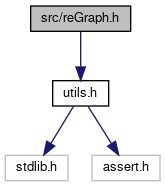
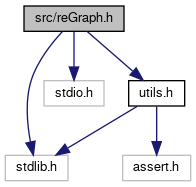
deploy: 8632b3fea432e5435f1c3c181e9e3f5456cb4f73

diff --git a/reGraph_8h_source.html b/reGraph_8h_source.html
@@ -73,26 +73,30 @@ $(function() {
 <div class="line"><a name="l00011"></a><span class="lineno">   11</span>&#160;<span class="preprocessor">#ifndef REGRAPH_H</span></div>
 <div class="line"><a name="l00012"></a><span class="lineno">   12</span>&#160;<span class="preprocessor">#define REGRAPH_H</span></div>
 <div class="line"><a name="l00013"></a><span class="lineno">   13</span>&#160;<span class="preprocessor">#define INIT_ADJ_LEN 1000</span></div>
-<div class="line"><a name="l00014"></a><span class="lineno">   14</span>&#160;<span class="preprocessor">#include &quot;<a class="code" href="utils_8h.html">utils.h</a>&quot;</span></div>
-<div class="line"><a name="l00015"></a><span class="lineno">   15</span>&#160; </div>
-<div class="line"><a name="l00021"></a><span class="lineno"><a class="line" href="structadjlist.html">   21</a></span>&#160;<span class="keyword">typedef</span> <span class="keyword">struct </span>{</div>
-<div class="line"><a name="l00022"></a><span class="lineno">   22</span>&#160;    <a class="code" href="structque.html">que</a>* ques;</div>
-<div class="line"><a name="l00023"></a><span class="lineno">   23</span>&#160;    <span class="keywordtype">int</span> n; </div>
-<div class="line"><a name="l00024"></a><span class="lineno">   24</span>&#160;} <a class="code" href="structadjlist.html">adjlist</a>;</div>
-<div class="line"><a name="l00025"></a><span class="lineno">   25</span>&#160; </div>
-<div class="line"><a name="l00026"></a><span class="lineno">   26</span>&#160;<span class="comment">// Init and kill</span></div>
-<div class="line"><a name="l00027"></a><span class="lineno">   27</span>&#160;<a class="code" href="structadjlist.html">adjlist</a> init_adjlist(<span class="keywordtype">int</span> n);</div>
-<div class="line"><a name="l00028"></a><span class="lineno">   28</span>&#160;<span class="keywordtype">void</span> kill_adjlist(<a class="code" href="structadjlist.html">adjlist</a>*);</div>
-<div class="line"><a name="l00029"></a><span class="lineno">   29</span>&#160; </div>
-<div class="line"><a name="l00030"></a><span class="lineno">   30</span>&#160;<span class="comment">//Add edge</span></div>
-<div class="line"><a name="l00037"></a><span class="lineno">   37</span>&#160;<span class="comment"></span><span class="keywordtype">void</span> <a class="code" href="reGraph_8h.html#a6fc092bd8a5734c02871a57d18d5a0d0">add_edge</a>(<a class="code" href="structadjlist.html">adjlist</a>*, <span class="keywordtype">int</span> u, <span class="keywordtype">int</span> v);</div>
+<div class="line"><a name="l00014"></a><span class="lineno">   14</span>&#160;<span class="preprocessor">#include &lt;stdlib.h&gt;</span></div>
+<div class="line"><a name="l00015"></a><span class="lineno">   15</span>&#160;<span class="preprocessor">#include &lt;stdio.h&gt;</span></div>
+<div class="line"><a name="l00016"></a><span class="lineno">   16</span>&#160;<span class="preprocessor">#include &quot;<a class="code" href="utils_8h.html">utils.h</a>&quot;</span></div>
+<div class="line"><a name="l00017"></a><span class="lineno">   17</span>&#160; </div>
+<div class="line"><a name="l00018"></a><span class="lineno">   18</span>&#160; </div>
+<div class="line"><a name="l00024"></a><span class="lineno"><a class="line" href="structadjlist.html">   24</a></span>&#160;<span class="keyword">typedef</span> <span class="keyword">struct </span>{</div>
+<div class="line"><a name="l00025"></a><span class="lineno">   25</span>&#160;    <a class="code" href="structque.html">que</a>* ques;</div>
+<div class="line"><a name="l00026"></a><span class="lineno">   26</span>&#160;    <span class="keywordtype">int</span> n; </div>
+<div class="line"><a name="l00027"></a><span class="lineno">   27</span>&#160;} <a class="code" href="structadjlist.html">adjlist</a>;</div>
+<div class="line"><a name="l00028"></a><span class="lineno">   28</span>&#160; </div>
+<div class="line"><a name="l00029"></a><span class="lineno">   29</span>&#160;<span class="comment">// Init and kill</span></div>
+<div class="line"><a name="l00036"></a><span class="lineno">   36</span>&#160;<span class="comment"></span><a class="code" href="structadjlist.html">adjlist</a> <a class="code" href="reGraph_8h.html#a4dcb7b8db53dad6de835618918a3d9c9">init_adjlist</a>(<span class="keywordtype">int</span> n);</div>
+<div class="line"><a name="l00037"></a><span class="lineno">   37</span>&#160;<span class="keywordtype">void</span> kill_adjlist(<a class="code" href="structadjlist.html">adjlist</a>*);</div>
 <div class="line"><a name="l00038"></a><span class="lineno">   38</span>&#160; </div>
-<div class="line"><a name="l00039"></a><span class="lineno">   39</span>&#160;<span class="keywordtype">void</span> interface(<span class="keywordtype">void</span>);</div>
-<div class="line"><a name="l00040"></a><span class="lineno">   40</span>&#160; </div>
-<div class="line"><a name="l00041"></a><span class="lineno">   41</span>&#160; </div>
-<div class="line"><a name="l00042"></a><span class="lineno">   42</span>&#160;<span class="preprocessor">#endif </span></div>
+<div class="line"><a name="l00039"></a><span class="lineno">   39</span>&#160;<span class="comment">//Add edge</span></div>
+<div class="line"><a name="l00046"></a><span class="lineno">   46</span>&#160;<span class="comment"></span><span class="keywordtype">void</span> <a class="code" href="reGraph_8h.html#a6fc092bd8a5734c02871a57d18d5a0d0">add_edge</a>(<a class="code" href="structadjlist.html">adjlist</a>*, <span class="keywordtype">int</span> u, <span class="keywordtype">int</span> v);</div>
+<div class="line"><a name="l00047"></a><span class="lineno">   47</span>&#160; </div>
+<div class="line"><a name="l00048"></a><span class="lineno">   48</span>&#160;<span class="keywordtype">int</span> interface(<span class="keywordtype">void</span>);</div>
+<div class="line"><a name="l00049"></a><span class="lineno">   49</span>&#160; </div>
+<div class="line"><a name="l00050"></a><span class="lineno">   50</span>&#160; </div>
+<div class="line"><a name="l00051"></a><span class="lineno">   51</span>&#160;<span class="preprocessor">#endif </span></div>
+<div class="ttc" id="areGraph_8h_html_a4dcb7b8db53dad6de835618918a3d9c9"><div class="ttname"><a href="reGraph_8h.html#a4dcb7b8db53dad6de835618918a3d9c9">init_adjlist</a></div><div class="ttdeci">adjlist init_adjlist(int n)</div><div class="ttdoc">Create adjacency list with n vertexes.</div><div class="ttdef"><b>Definition:</b> reGraph.c:3</div></div>
 <div class="ttc" id="areGraph_8h_html_a6fc092bd8a5734c02871a57d18d5a0d0"><div class="ttname"><a href="reGraph_8h.html#a6fc092bd8a5734c02871a57d18d5a0d0">add_edge</a></div><div class="ttdeci">void add_edge(adjlist *, int u, int v)</div><div class="ttdoc">Add edge to link v to u.</div><div class="ttdef"><b>Definition:</b> reGraph.c:23</div></div>
-<div class="ttc" id="astructadjlist_html"><div class="ttname"><a href="structadjlist.html">adjlist</a></div><div class="ttdoc">Adjacency list.</div><div class="ttdef"><b>Definition:</b> reGraph.h:21</div></div>
+<div class="ttc" id="astructadjlist_html"><div class="ttname"><a href="structadjlist.html">adjlist</a></div><div class="ttdoc">Adjacency list.</div><div class="ttdef"><b>Definition:</b> reGraph.h:24</div></div>
 <div class="ttc" id="astructque_html"><div class="ttname"><a href="structque.html">que</a></div><div class="ttdef"><b>Definition:</b> utils.h:43</div></div>
 <div class="ttc" id="autils_8h_html"><div class="ttname"><a href="utils_8h.html">utils.h</a></div><div class="ttdoc">General Utilities for C language.</div></div>
 </div><!-- fragment --></div><!-- contents -->

diff --git a/reGraph_8h.html b/reGraph_8h.html
@@ -73,16 +73,19 @@ $(function() {
 <div class="title">reGraph.h File Reference</div>  </div>
 </div><!--header-->
 <div class="contents">
-<div class="textblock"><code>#include &quot;<a class="el" href="utils_8h_source.html">utils.h</a>&quot;</code><br />
+<div class="textblock"><code>#include &lt;stdlib.h&gt;</code><br />
+<code>#include &lt;stdio.h&gt;</code><br />
+<code>#include &quot;<a class="el" href="utils_8h_source.html">utils.h</a>&quot;</code><br />
 </div><div class="textblock"><div class="dynheader">
 Include dependency graph for reGraph.h:</div>
 <div class="dyncontent">
 <div class="center"><img src="reGraph_8h__incl.png" border="0" usemap="#asrc_2reGraph_8h" alt=""/></div>
 <map name="asrc_2reGraph_8h" id="asrc_2reGraph_8h">
-<area shape="rect" title=" " alt="" coords="31,5,131,32"/>
-<area shape="rect" href="utils_8h.html" title="General Utilities for C language." alt="" coords="53,80,109,107"/>
+<area shape="rect" title=" " alt="" coords="24,5,124,32"/>
 <area shape="rect" title=" " alt="" coords="5,155,68,181"/>
-<area shape="rect" title=" " alt="" coords="92,155,160,181"/>
+<area shape="rect" title=" " alt="" coords="44,80,104,107"/>
+<area shape="rect" href="utils_8h.html" title="General Utilities for C language." alt="" coords="129,80,185,107"/>
+<area shape="rect" title=" " alt="" coords="123,155,191,181"/>
 </map>
 </div>
 </div><div class="textblock"><div class="dynheader">
@@ -111,8 +114,8 @@ Macros</h2></td></tr>
 </table><table class="memberdecls">
 <tr class="heading"><td colspan="2"><h2 class="groupheader"><a name="func-members"></a>
 Functions</h2></td></tr>
-<tr class="memitem:a4dcb7b8db53dad6de835618918a3d9c9"><td class="memItemLeft" align="right" valign="top"><a id="a4dcb7b8db53dad6de835618918a3d9c9"></a>
-<a class="el" href="structadjlist.html">adjlist</a>&#160;</td><td class="memItemRight" valign="bottom"><b>init_adjlist</b> (int n)</td></tr>
+<tr class="memitem:a4dcb7b8db53dad6de835618918a3d9c9"><td class="memItemLeft" align="right" valign="top"><a class="el" href="structadjlist.html">adjlist</a>&#160;</td><td class="memItemRight" valign="bottom"><a class="el" href="reGraph_8h.html#a4dcb7b8db53dad6de835618918a3d9c9">init_adjlist</a> (int n)</td></tr>
+<tr class="memdesc:a4dcb7b8db53dad6de835618918a3d9c9"><td class="mdescLeft">&#160;</td><td class="mdescRight">Create adjacency list with n vertexes.  <a href="reGraph_8h.html#a4dcb7b8db53dad6de835618918a3d9c9">More...</a><br /></td></tr>
 <tr class="separator:a4dcb7b8db53dad6de835618918a3d9c9"><td class="memSeparator" colspan="2">&#160;</td></tr>
 <tr class="memitem:a8bb4fcb8d8eccf0c5e1a93adea956282"><td class="memItemLeft" align="right" valign="top"><a id="a8bb4fcb8d8eccf0c5e1a93adea956282"></a>
 void&#160;</td><td class="memItemRight" valign="bottom"><b>kill_adjlist</b> (<a class="el" href="structadjlist.html">adjlist</a> *)</td></tr>
@@ -120,9 +123,9 @@ void&#160;</td><td class="memItemRight" valign="bottom"><b>kill_adjlist</b> (<a 
 <tr class="memitem:a6fc092bd8a5734c02871a57d18d5a0d0"><td class="memItemLeft" align="right" valign="top">void&#160;</td><td class="memItemRight" valign="bottom"><a class="el" href="reGraph_8h.html#a6fc092bd8a5734c02871a57d18d5a0d0">add_edge</a> (<a class="el" href="structadjlist.html">adjlist</a> *, int u, int v)</td></tr>
 <tr class="memdesc:a6fc092bd8a5734c02871a57d18d5a0d0"><td class="mdescLeft">&#160;</td><td class="mdescRight">Add edge to link v to u.  <a href="reGraph_8h.html#a6fc092bd8a5734c02871a57d18d5a0d0">More...</a><br /></td></tr>
 <tr class="separator:a6fc092bd8a5734c02871a57d18d5a0d0"><td class="memSeparator" colspan="2">&#160;</td></tr>
-<tr class="memitem:a8f4cbf5cfe0219499d9018b18e2acac5"><td class="memItemLeft" align="right" valign="top"><a id="a8f4cbf5cfe0219499d9018b18e2acac5"></a>
-void&#160;</td><td class="memItemRight" valign="bottom"><b>interface</b> (void)</td></tr>
-<tr class="separator:a8f4cbf5cfe0219499d9018b18e2acac5"><td class="memSeparator" colspan="2">&#160;</td></tr>
+<tr class="memitem:a291f23de83e1b78e47b0d87a464bed04"><td class="memItemLeft" align="right" valign="top"><a id="a291f23de83e1b78e47b0d87a464bed04"></a>
+int&#160;</td><td class="memItemRight" valign="bottom"><b>interface</b> (void)</td></tr>
+<tr class="separator:a291f23de83e1b78e47b0d87a464bed04"><td class="memSeparator" colspan="2">&#160;</td></tr>
 </table>
 <a name="details" id="details"></a><h2 class="groupheader">Detailed Description</h2>
 <div class="textblock"><dl class="section author"><dt>Author</dt><dd>your name (<a href="#" onclick="location.href='mai'+'lto:'+'you'+'@d'+'oma'+'in'+'.co'+'m'; return false;">you@d<span style="display: none;">.nosp@m.</span>omai<span style="display: none;">.nosp@m.</span>n.com</a>) </dd></dl>
@@ -170,6 +173,33 @@ void&#160;</td><td class="memItemRight" valign="bottom"><b>interface</b> (void)<
   </table>
   </dd>
 </dl>
+
+</div>
+</div>
+<a id="a4dcb7b8db53dad6de835618918a3d9c9"></a>
+<h2 class="memtitle"><span class="permalink"><a href="#a4dcb7b8db53dad6de835618918a3d9c9">&#9670;&nbsp;</a></span>init_adjlist()</h2>
+
+<div class="memitem">
+<div class="memproto">
+      <table class="memname">
+        <tr>
+          <td class="memname"><a class="el" href="structadjlist.html">adjlist</a> init_adjlist </td>
+          <td>(</td>
+          <td class="paramtype">int&#160;</td>
+          <td class="paramname"><em>n</em></td><td>)</td>
+          <td></td>
+        </tr>
+      </table>
+</div><div class="memdoc">
+
+<p>Create adjacency list with n vertexes. </p>
+<dl class="params"><dt>Parameters</dt><dd>
+  <table class="params">
+    <tr><td class="paramname">n</td><td>number of vertexes </td></tr>
+  </table>
+  </dd>
+</dl>
+<dl class="section return"><dt>Returns</dt><dd>adjlist </dd></dl>
 
 </div>
 </div>

diff --git a/test__reGraph_8h_source.html b/test__reGraph_8h_source.html
@@ -77,7 +77,7 @@ $(function() {
 <div class="line"><a name="l00006"></a><span class="lineno">    6</span>&#160; </div>
 <div class="line"><a name="l00007"></a><span class="lineno">    7</span>&#160; </div>
 <div class="line"><a name="l00008"></a><span class="lineno">    8</span>&#160;<span class="keywordtype">void</span> test_build(<span class="keywordtype">void</span>){</div>
-<div class="line"><a name="l00009"></a><span class="lineno">    9</span>&#160;    <a class="code" href="structadjlist.html">adjlist</a> adl = init_adjlist(100);</div>
+<div class="line"><a name="l00009"></a><span class="lineno">    9</span>&#160;    <a class="code" href="structadjlist.html">adjlist</a> adl = <a class="code" href="reGraph_8h.html#a4dcb7b8db53dad6de835618918a3d9c9">init_adjlist</a>(100);</div>
 <div class="line"><a name="l00010"></a><span class="lineno">   10</span>&#160; </div>
 <div class="line"><a name="l00011"></a><span class="lineno">   11</span>&#160;    <span class="keywordflow">for</span>(<span class="keywordtype">int</span> i=1;i&lt;=100;i++){</div>
 <div class="line"><a name="l00012"></a><span class="lineno">   12</span>&#160;        <span class="keywordflow">for</span>(<span class="keywordtype">int</span> j=1;j&lt;=100;j++)</div>
@@ -98,8 +98,9 @@ $(function() {
 <div class="line"><a name="l00027"></a><span class="lineno">   27</span>&#160; </div>
 <div class="line"><a name="l00028"></a><span class="lineno">   28</span>&#160;<span class="preprocessor">#endif</span></div>
 <div class="ttc" id="areGraph_8h_html"><div class="ttname"><a href="reGraph_8h.html">reGraph.h</a></div></div>
+<div class="ttc" id="areGraph_8h_html_a4dcb7b8db53dad6de835618918a3d9c9"><div class="ttname"><a href="reGraph_8h.html#a4dcb7b8db53dad6de835618918a3d9c9">init_adjlist</a></div><div class="ttdeci">adjlist init_adjlist(int n)</div><div class="ttdoc">Create adjacency list with n vertexes.</div><div class="ttdef"><b>Definition:</b> reGraph.c:3</div></div>
 <div class="ttc" id="areGraph_8h_html_a6fc092bd8a5734c02871a57d18d5a0d0"><div class="ttname"><a href="reGraph_8h.html#a6fc092bd8a5734c02871a57d18d5a0d0">add_edge</a></div><div class="ttdeci">void add_edge(adjlist *, int u, int v)</div><div class="ttdoc">Add edge to link v to u.</div><div class="ttdef"><b>Definition:</b> reGraph.c:23</div></div>
-<div class="ttc" id="astructadjlist_html"><div class="ttname"><a href="structadjlist.html">adjlist</a></div><div class="ttdoc">Adjacency list.</div><div class="ttdef"><b>Definition:</b> reGraph.h:21</div></div>
+<div class="ttc" id="astructadjlist_html"><div class="ttname"><a href="structadjlist.html">adjlist</a></div><div class="ttdoc">Adjacency list.</div><div class="ttdef"><b>Definition:</b> reGraph.h:24</div></div>
 </div><!-- fragment --></div><!-- contents -->
 <!-- start footer part -->
 <hr class="footer"/><address class="footer"><small>

diff --git a/search/functions_1.html b/search/functions_1.html
@@ -1,0 +1,37 @@
+<!DOCTYPE html PUBLIC "-//W3C//DTD XHTML 1.0 Transitional//EN" "https://www.w3.org/TR/xhtml1/DTD/xhtml1-transitional.dtd">
+<html xmlns="http://www.w3.org/1999/xhtml">
+<head><title></title>
+<meta http-equiv="Content-Type" content="text/xhtml;charset=UTF-8"/>
+<meta name="generator" content="Doxygen 1.9.1"/>
+<link rel="stylesheet" type="text/css" href="search.css"/>
+<script type="text/javascript" src="functions_1.js"></script>
+<script type="text/javascript" src="search.js"></script>
+</head>
+<body class="SRPage">
+<div id="SRIndex">
+<div class="SRStatus" id="Loading">Loading...</div>
+<div id="SRResults"></div>
+<script type="text/javascript">
+/* @license magnet:?xt=urn:btih:cf05388f2679ee054f2beb29a391d25f4e673ac3&amp;dn=gpl-2.0.txt GPL-v2 */
+createResults();
+/* @license-end */
+</script>
+<div class="SRStatus" id="Searching">Searching...</div>
+<div class="SRStatus" id="NoMatches">No Matches</div>
+<script type="text/javascript">
+/* @license magnet:?xt=urn:btih:cf05388f2679ee054f2beb29a391d25f4e673ac3&amp;dn=gpl-2.0.txt GPL-v2 */
+document.getElementById("Loading").style.display="none";
+document.getElementById("NoMatches").style.display="none";
+var searchResults = new SearchResults("searchResults");
+searchResults.Search();
+window.addEventListener("message", function(event) {
+  if (event.data == "take_focus") {
+    var elem = searchResults.NavNext(0);
+    if (elem) elem.focus();
+  }
+});
+/* @license-end */
+</script>
+</div>
+</body>
+</html>

diff --git a/search/all_6.html b/search/all_6.html
@@ -1,0 +1,37 @@
+<!DOCTYPE html PUBLIC "-//W3C//DTD XHTML 1.0 Transitional//EN" "https://www.w3.org/TR/xhtml1/DTD/xhtml1-transitional.dtd">
+<html xmlns="http://www.w3.org/1999/xhtml">
+<head><title></title>
+<meta http-equiv="Content-Type" content="text/xhtml;charset=UTF-8"/>
+<meta name="generator" content="Doxygen 1.9.1"/>
+<link rel="stylesheet" type="text/css" href="search.css"/>
+<script type="text/javascript" src="all_6.js"></script>
+<script type="text/javascript" src="search.js"></script>
+</head>
+<body class="SRPage">
+<div id="SRIndex">
+<div class="SRStatus" id="Loading">Loading...</div>
+<div id="SRResults"></div>
+<script type="text/javascript">
+/* @license magnet:?xt=urn:btih:cf05388f2679ee054f2beb29a391d25f4e673ac3&amp;dn=gpl-2.0.txt GPL-v2 */
+createResults();
+/* @license-end */
+</script>
+<div class="SRStatus" id="Searching">Searching...</div>
+<div class="SRStatus" id="NoMatches">No Matches</div>
+<script type="text/javascript">
+/* @license magnet:?xt=urn:btih:cf05388f2679ee054f2beb29a391d25f4e673ac3&amp;dn=gpl-2.0.txt GPL-v2 */
+document.getElementById("Loading").style.display="none";
+document.getElementById("NoMatches").style.display="none";
+var searchResults = new SearchResults("searchResults");
+searchResults.Search();
+window.addEventListener("message", function(event) {
+  if (event.data == "take_focus") {
+    var elem = searchResults.NavNext(0);
+    if (elem) elem.focus();
+  }
+});
+/* @license-end */
+</script>
+</div>
+</body>
+</html>

diff --git a/search/functions_0.js b/search/functions_0.js
@@ -1,5 +1,5 @@
 var searchData=
 [
-  ['add_5fedge_13',['add_edge',['../reGraph_8h.html#a6fc092bd8a5734c02871a57d18d5a0d0',1,'reGraph.c']]],
-  ['argmax_14',['argmax',['../utils_8h.html#a1fa7fd55f201216ebf7800abb1c427a8',1,'utils.c']]]
+  ['add_5fedge_14',['add_edge',['../reGraph_8h.html#a6fc092bd8a5734c02871a57d18d5a0d0',1,'reGraph.c']]],
+  ['argmax_15',['argmax',['../utils_8h.html#a1fa7fd55f201216ebf7800abb1c427a8',1,'utils.c']]]
 ];

diff --git a/globals.html b/globals.html
@@ -68,6 +68,9 @@ $(function() {
 <li>argmax()
 : <a class="el" href="utils_8h.html#a1fa7fd55f201216ebf7800abb1c427a8">utils.h</a>
 </li>
+<li>init_adjlist()
+: <a class="el" href="reGraph_8h.html#a4dcb7b8db53dad6de835618918a3d9c9">reGraph.h</a>
+</li>
 </ul>
 </div><!-- contents -->
 <!-- start footer part -->

diff --git a/globals_func.html b/globals_func.html
@@ -68,6 +68,9 @@ $(function() {
 <li>argmax()
 : <a class="el" href="utils_8h.html#a1fa7fd55f201216ebf7800abb1c427a8">utils.h</a>
 </li>
+<li>init_adjlist()
+: <a class="el" href="reGraph_8h.html#a4dcb7b8db53dad6de835618918a3d9c9">reGraph.h</a>
+</li>
 </ul>
 </div><!-- contents -->
 <!-- start footer part -->

diff --git a/search/all_3.js b/search/all_3.js
@@ -1,4 +1,4 @@
 var searchData=
 [
-  ['que_5',['que',['../structque.html',1,'']]]
+  ['init_5fadjlist_5',['init_adjlist',['../reGraph_8h.html#a4dcb7b8db53dad6de835618918a3d9c9',1,'reGraph.c']]]
 ];

diff --git a/search/pages_0.js b/search/pages_0.js
@@ -1,4 +1,4 @@
 var searchData=
 [
-  ['cprojecttemplate_15',['CProjectTemplate',['../index.html',1,'']]]
+  ['cprojecttemplate_17',['CProjectTemplate',['../index.html',1,'']]]
 ];

diff --git a/search/files_0.js b/search/files_0.js
@@ -1,4 +1,4 @@
 var searchData=
 [
-  ['regraph_2eh_11',['reGraph.h',['../reGraph_8h.html',1,'']]]
+  ['regraph_2eh_12',['reGraph.h',['../reGraph_8h.html',1,'']]]
 ];

diff --git a/search/all_5.js b/search/all_5.js
@@ -1,4 +1,4 @@
 var searchData=
 [
-  ['utils_2eh_7',['utils.h',['../utils_8h.html',1,'']]]
+  ['regraph_2eh_7',['reGraph.h',['../reGraph_8h.html',1,'']]]
 ];
